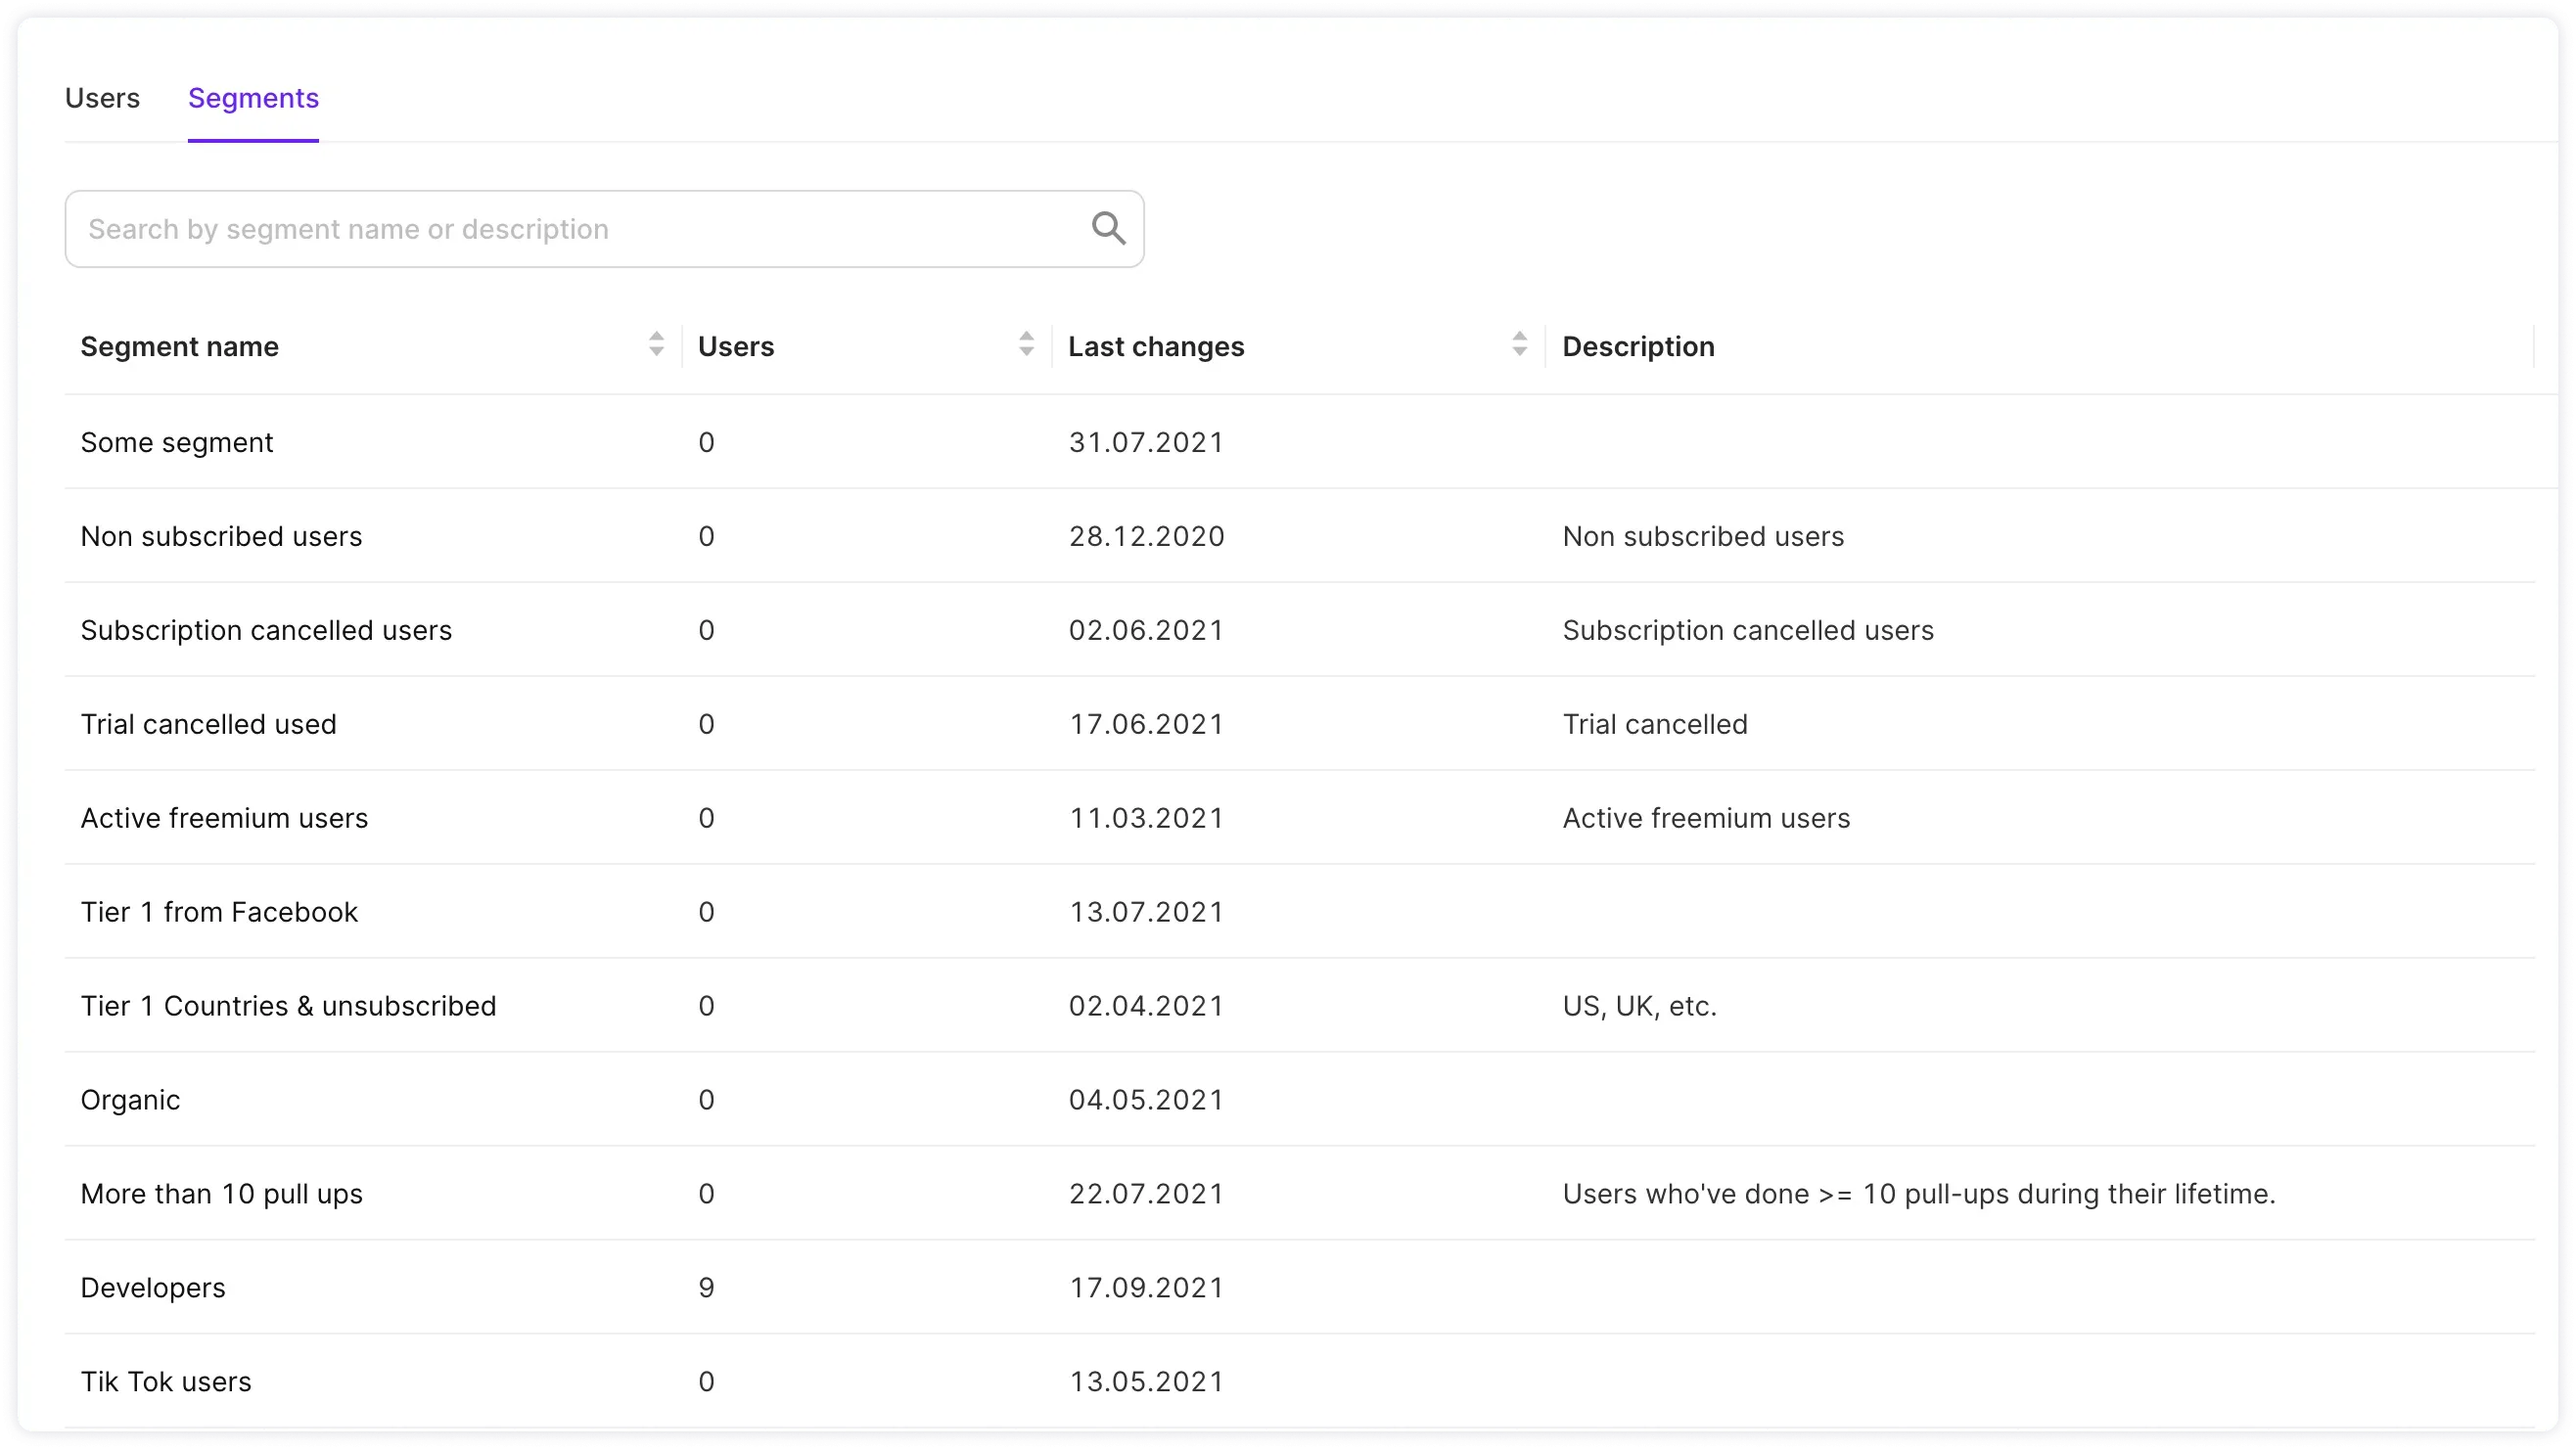
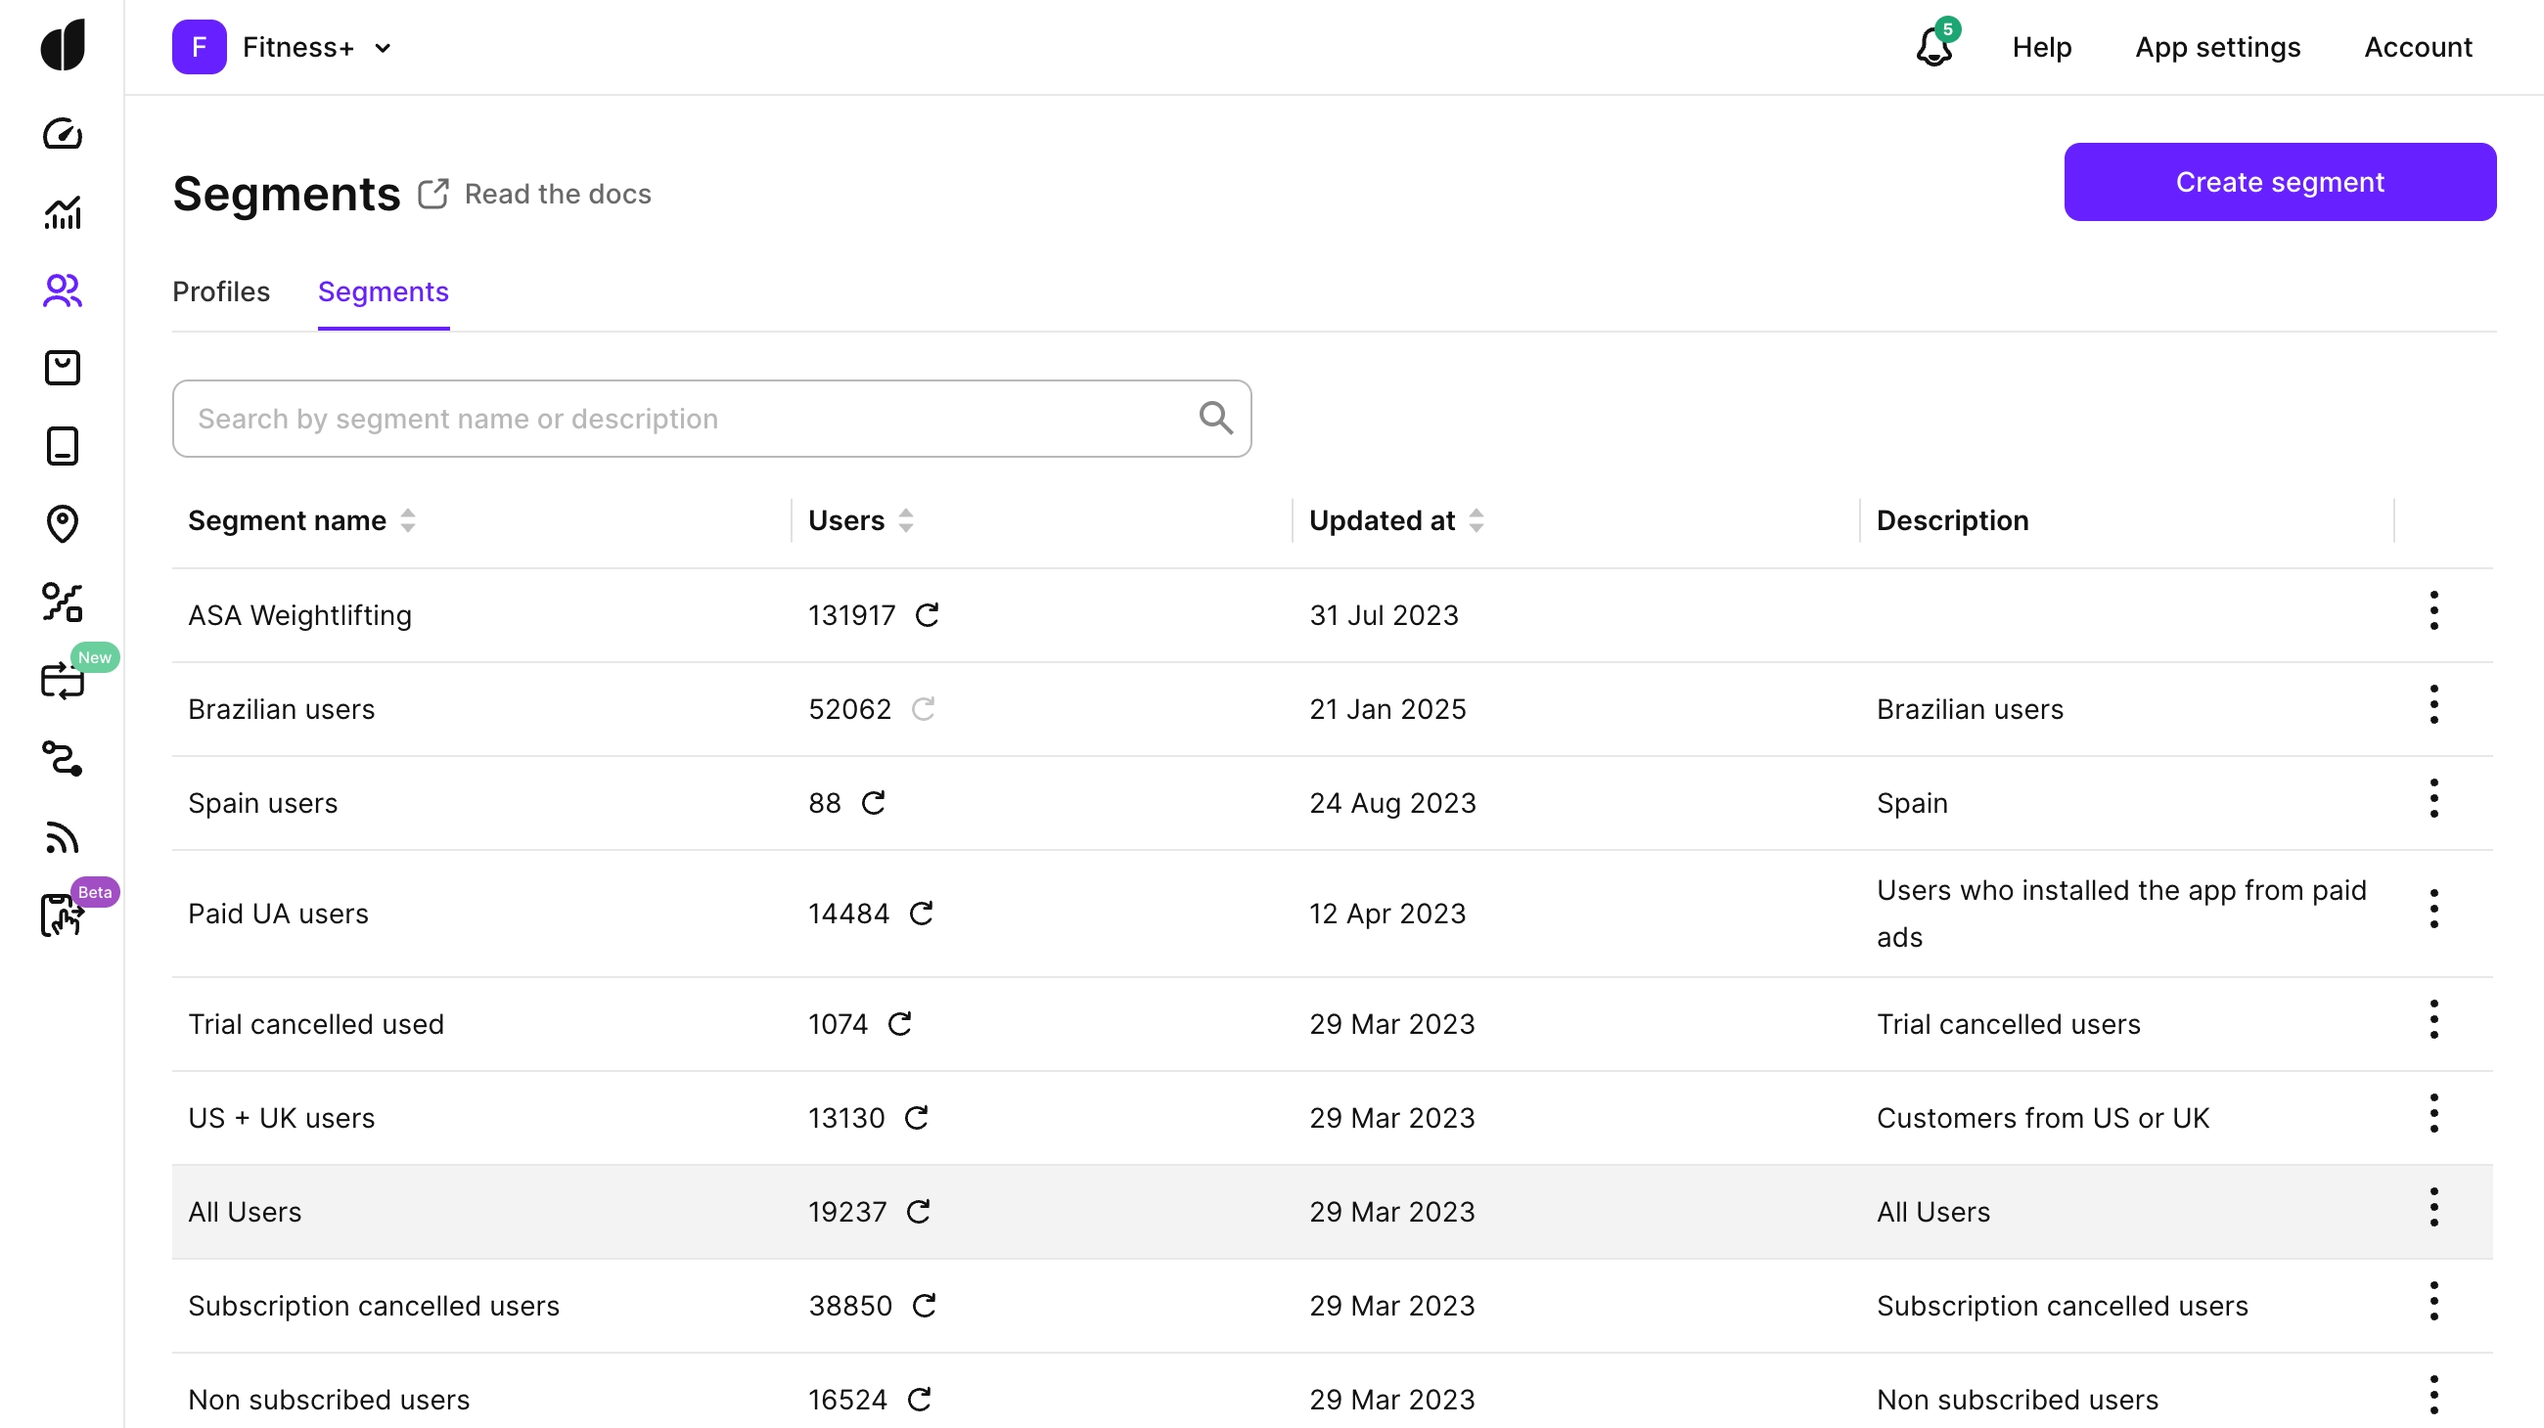
Updated screenshots for segments

diff --git a/versioned_docs/version-3.0/segments.md b/versioned_docs/version-3.0/segments.md
@@ -9,7 +9,6 @@ import 'react-medium-image-zoom/dist/styles.css';
 
 A Segment is a group of users with common properties.
 
-
 <Zoom>
   <img src={require('./img/3244407-Segments.webp').default}
   style={{
@@ -27,15 +26,17 @@ A Segment is a group of users with common properties.
 
 Segments are mainly used in [Placements](placements) and in [A/B tests](ab-tests) to create an Audience and target it with a paywall (or multiple paywalls). Here are some example scenarios where that can be useful:
 
-- targeting non-subscribed users with the default paywall and offering a discount for those who have previously canceled their subscription or a trial.
-- having different paywalls for different countries
-- basing your segment on the Apple Search Ads attribution data
-- creating segments based on your app's version, so that once you introduce a new paywall that is only supported by the recent versions of your app, the older versions would still continue to work
+- Targeting non-subscribed users with the default paywall and offering a discount for those who have previously canceled their subscription or a trial.
+- Having different paywalls for different countries
+- Basing your segment on the Apple Search Ads attribution data
+- Creating segments based on your app's version, so that once you introduce a new paywall that is only supported by the recent versions of your app, the older versions will still continue to work
 
 ## Creation
 
-To create a segment, write a segment name, and choose attributes.
+To create a segment:
 
+1. In the [**Segments**](https://app.adapty.io/profiles/segments) window, click **Create segment**.
+2. Write a segment name, and choose attributes.
 
 <Zoom>
   <img src={require('./img/1af9744-new_cohort.webp').default}
